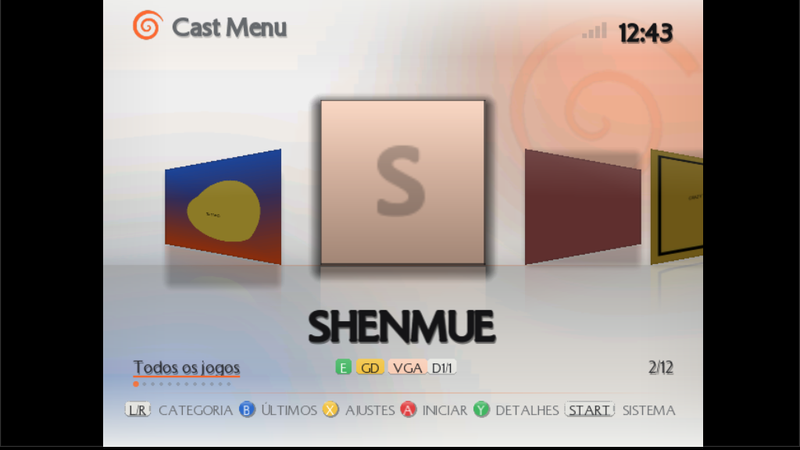
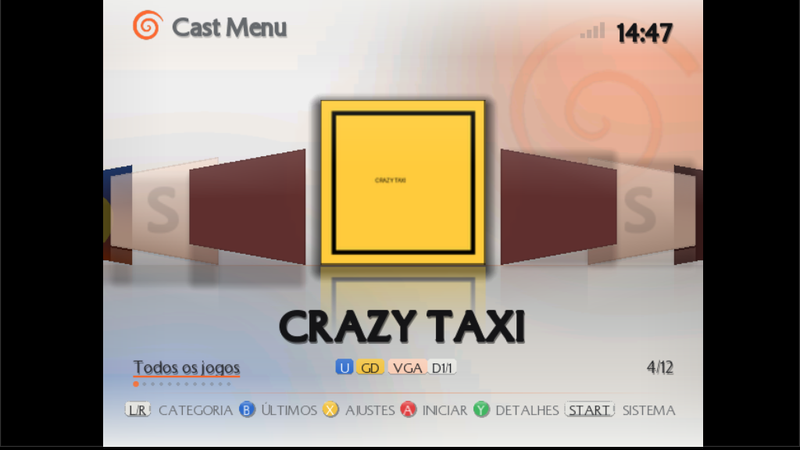
coverflow: deck-style overlap, three covers per side, far covers shrink

Changed region(s): [[0.125, 0.2178, 0.9062, 0.84], [0.7188, 0.0311, 0.8438, 0.0933], [0.8125, 0.8089, 0.8438, 0.84]]

diff --git a/src/ui/coverflow.c b/src/ui/coverflow.c
@@ -10,7 +10,7 @@
 #define CF_CY 196.0f       /* vertical center of the covers */
 #define CF_SIZE 176.0f     /* center cover size */
 #define CF_SIDE 124.0f     /* side cover size */
-#define CF_GAP 134.0f      /* horizontal spacing between side covers (no overlap) */
+#define CF_GAP 88.0f       /* horizontal spacing between side covers (deck overlap) */
 #define CF_FLOOR (CF_CY + CF_SIZE / 2 + 2)
 
 void coverflow_reset(int cursor) { (void)cursor; }
@@ -22,6 +22,7 @@ static void cover_at(const game_t *g, float d, int is_center) {
     if (ad > 3.2f) return;
     float side = clampf(ad, 0, 1);                       /* 0 center .. 1 fully a side cover */
     float size = CF_SIZE + (CF_SIDE - CF_SIZE) * side;
+    if (ad > 1) size *= 1 - 0.07f * clampf(ad - 1, 0, 2);   /* deeper covers shrink a little */
     float cx;
     if (ad <= 1) cx = SCREEN_W / 2 + d * (CF_SIZE / 2 + CF_GAP * 0.55f + 30);
     else cx = SCREEN_W / 2 + (d < 0 ? -1 : 1) * (CF_SIZE / 2 + CF_GAP * 0.55f + 30 + (ad - 1) * CF_GAP);
@@ -76,6 +77,7 @@ void coverflow_draw(int cursor, float *pos) {
     if (!n) { draw_text_center(&g_font, SCREEN_W / 2, CF_CY - 10, t->text_dim, tr(S_NO_GAMES)); return; }
     /* draw far-to-near: left side from far, right side from far, center last */
     int center = (int)floorf(*pos + 0.5f);
+    /* far to near: the translucent list keeps submission order, so nearer covers land on top */
     for (int k = 3; k >= 1; k--) {
         int i = center - k; if (i >= 0 && i < n) cover_at(list_view_item(i), i - *pos, 0);
         i = center + k; if (i >= 0 && i < n) cover_at(list_view_item(i), i - *pos, 0);
